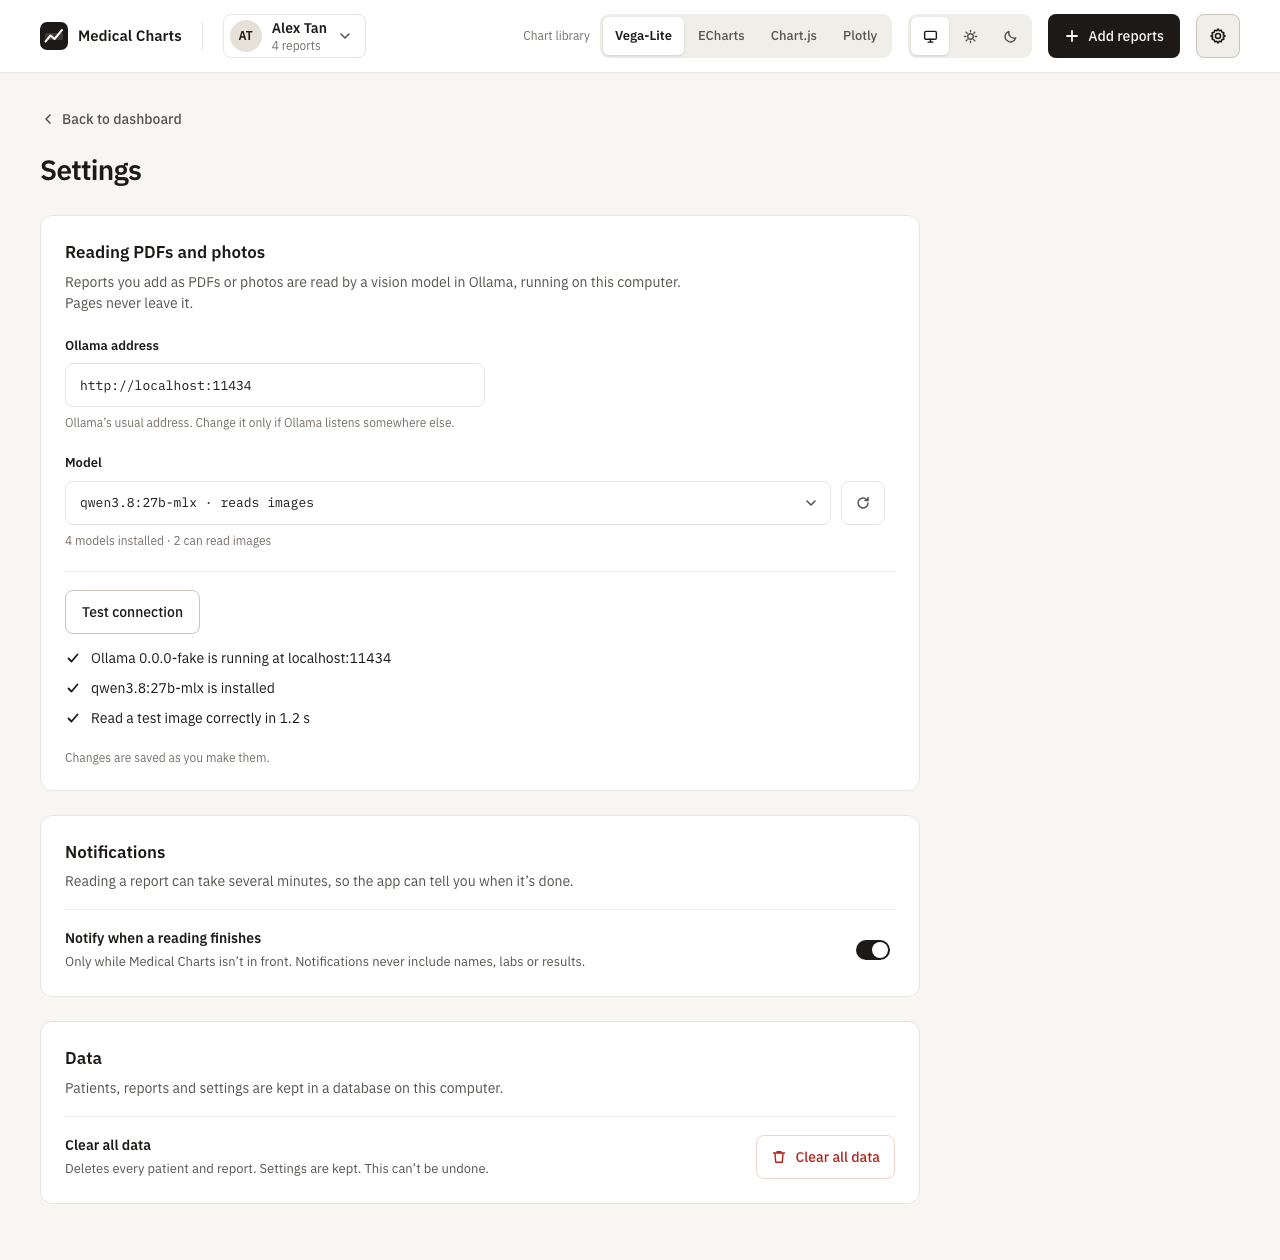
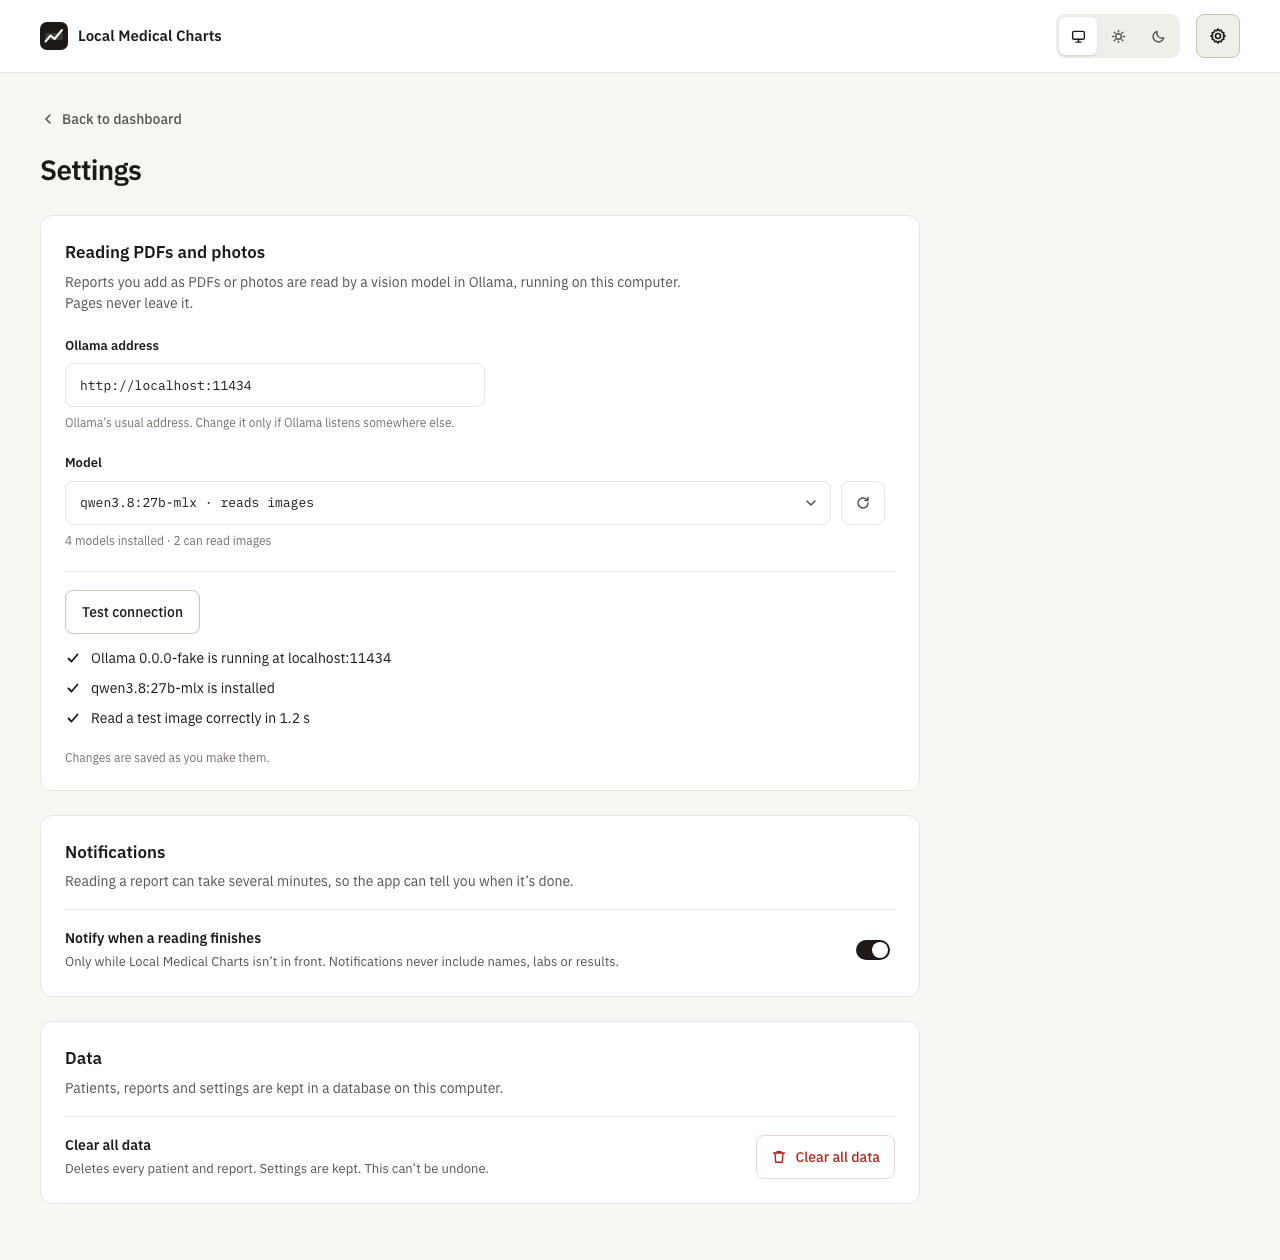
chore: rename the app to Local Medical Charts and refresh README screenshots

diff --git a/design/FirstReport.dc.html b/design/FirstReport.dc.html
@@ -17,7 +17,7 @@
 <div style="width: 1440px; min-height: 1000px; background: #f7f6f3">
   <header style="display: flex; align-items: center; justify-content: space-between; gap: 24px; height: 72px; padding: 0 40px; background: #ffffff; border-bottom: 1px solid #e7e5e0">
     <div style="display: flex; align-items: center; gap: 20px">
-      <div style="display: flex; align-items: center; gap: 10px"><svg width="28" height="28" viewBox="0 0 28 28" fill="none" aria-hidden="true"><rect width="28" height="28" rx="7" fill="#1c1917"></rect><rect x="5" y="11" width="18" height="7" rx="1.5" fill="#3a3530"></rect><path d="M5.5 19.5l5-6 4 3.5 7.5-9" stroke="#ffffff" stroke-width="2" stroke-linecap="round" stroke-linejoin="round"></path></svg><span style="font-size: 15px; font-weight: 600; color: #1c1917">Medical Charts</span></div>
+      <div style="display: flex; align-items: center; gap: 10px"><svg width="28" height="28" viewBox="0 0 28 28" fill="none" aria-hidden="true"><rect width="28" height="28" rx="7" fill="#1c1917"></rect><rect x="5" y="11" width="18" height="7" rx="1.5" fill="#3a3530"></rect><path d="M5.5 19.5l5-6 4 3.5 7.5-9" stroke="#ffffff" stroke-width="2" stroke-linecap="round" stroke-linejoin="round"></path></svg><span style="font-size: 15px; font-weight: 600; color: #1c1917">Local Medical Charts</span></div>
       <span style="width: 1px; height: 28px; background: #e7e5e0"></span>
       <div style="display: flex; align-items: center; gap: 10px; height: 44px; padding: 0 12px 0 6px; border: 1px solid #e7e5e0; border-radius: 8px; background: #ffffff">
         <span style="display: flex; align-items: center; justify-content: center; width: 32px; height: 32px; border-radius: 999px; background: #e6e1d8; font-size: 12px; font-weight: 600; color: #1c1917">SR</span>

diff --git a/design/Main.dc.html b/design/Main.dc.html
@@ -17,7 +17,7 @@
 <div style="width: 1440px; min-height: 2640px; background: #f7f6f3">
   <header style="display: flex; align-items: center; justify-content: space-between; gap: 24px; height: 72px; padding: 0 40px; background: #ffffff; border-bottom: 1px solid #e7e5e0">
     <div style="display: flex; align-items: center; gap: 20px">
-      <div style="display: flex; align-items: center; gap: 10px"><svg width="28" height="28" viewBox="0 0 28 28" fill="none" aria-hidden="true"><rect width="28" height="28" rx="7" fill="#1c1917"></rect><rect x="5" y="11" width="18" height="7" rx="1.5" fill="#3a3530"></rect><path d="M5.5 19.5l5-6 4 3.5 7.5-9" stroke="#ffffff" stroke-width="2" stroke-linecap="round" stroke-linejoin="round"></path></svg><span style="font-size: 15px; font-weight: 600; color: #1c1917">Medical Charts</span></div>
+      <div style="display: flex; align-items: center; gap: 10px"><svg width="28" height="28" viewBox="0 0 28 28" fill="none" aria-hidden="true"><rect width="28" height="28" rx="7" fill="#1c1917"></rect><rect x="5" y="11" width="18" height="7" rx="1.5" fill="#3a3530"></rect><path d="M5.5 19.5l5-6 4 3.5 7.5-9" stroke="#ffffff" stroke-width="2" stroke-linecap="round" stroke-linejoin="round"></path></svg><span style="font-size: 15px; font-weight: 600; color: #1c1917">Local Medical Charts</span></div>
       <span style="width: 1px; height: 28px; background: #e7e5e0"></span>
       <div style="display: flex; align-items: center; gap: 10px; height: 44px; padding: 0 12px 0 6px; border: 1px solid #e7e5e0; border-radius: 8px; background: #ffffff">
         <span style="display: flex; align-items: center; justify-content: center; width: 32px; height: 32px; border-radius: 999px; background: #e6e1d8; font-size: 12px; font-weight: 600; color: #1c1917">AT</span>

diff --git a/design/Review.dc.html b/design/Review.dc.html
@@ -17,7 +17,7 @@
 <div style="width: 1440px; min-height: 1240px; background: #f7f6f3">
   <header style="display: flex; align-items: center; justify-content: space-between; gap: 24px; height: 72px; padding: 0 40px; background: #ffffff; border-bottom: 1px solid #e7e5e0">
     <div style="display: flex; align-items: center; gap: 20px">
-      <div style="display: flex; align-items: center; gap: 10px"><svg width="28" height="28" viewBox="0 0 28 28" fill="none" aria-hidden="true"><rect width="28" height="28" rx="7" fill="#1c1917"></rect><rect x="5" y="11" width="18" height="7" rx="1.5" fill="#3a3530"></rect><path d="M5.5 19.5l5-6 4 3.5 7.5-9" stroke="#ffffff" stroke-width="2" stroke-linecap="round" stroke-linejoin="round"></path></svg><span style="font-size: 15px; font-weight: 600; color: #1c1917">Medical Charts</span></div>
+      <div style="display: flex; align-items: center; gap: 10px"><svg width="28" height="28" viewBox="0 0 28 28" fill="none" aria-hidden="true"><rect width="28" height="28" rx="7" fill="#1c1917"></rect><rect x="5" y="11" width="18" height="7" rx="1.5" fill="#3a3530"></rect><path d="M5.5 19.5l5-6 4 3.5 7.5-9" stroke="#ffffff" stroke-width="2" stroke-linecap="round" stroke-linejoin="round"></path></svg><span style="font-size: 15px; font-weight: 600; color: #1c1917">Local Medical Charts</span></div>
       <span style="width: 1px; height: 28px; background: #e7e5e0"></span>
       <div style="display: flex; align-items: center; gap: 10px; height: 44px; padding: 0 12px 0 6px; border: 1px solid #e7e5e0; border-radius: 8px; background: #ffffff">
         <span style="display: flex; align-items: center; justify-content: center; width: 32px; height: 32px; border-radius: 999px; background: #e6e1d8; font-size: 12px; font-weight: 600; color: #1c1917">AT</span>

diff --git a/design/Settings.dc.html b/design/Settings.dc.html
@@ -17,7 +17,7 @@
 <div style="width: 1440px; min-height: 1100px; background: #f7f6f3">
   <header style="display: flex; align-items: center; justify-content: space-between; gap: 24px; height: 72px; padding: 0 40px; background: #ffffff; border-bottom: 1px solid #e7e5e0">
     <div style="display: flex; align-items: center; gap: 20px">
-      <div style="display: flex; align-items: center; gap: 10px"><svg width="28" height="28" viewBox="0 0 28 28" fill="none" aria-hidden="true"><rect width="28" height="28" rx="7" fill="#1c1917"></rect><rect x="5" y="11" width="18" height="7" rx="1.5" fill="#3a3530"></rect><path d="M5.5 19.5l5-6 4 3.5 7.5-9" stroke="#ffffff" stroke-width="2" stroke-linecap="round" stroke-linejoin="round"></path></svg><span style="font-size: 15px; font-weight: 600; color: #1c1917">Medical Charts</span></div>
+      <div style="display: flex; align-items: center; gap: 10px"><svg width="28" height="28" viewBox="0 0 28 28" fill="none" aria-hidden="true"><rect width="28" height="28" rx="7" fill="#1c1917"></rect><rect x="5" y="11" width="18" height="7" rx="1.5" fill="#3a3530"></rect><path d="M5.5 19.5l5-6 4 3.5 7.5-9" stroke="#ffffff" stroke-width="2" stroke-linecap="round" stroke-linejoin="round"></path></svg><span style="font-size: 15px; font-weight: 600; color: #1c1917">Local Medical Charts</span></div>
       <span style="width: 1px; height: 28px; background: #e7e5e0"></span>
       <div style="display: flex; align-items: center; gap: 10px; height: 44px; padding: 0 12px 0 6px; border: 1px solid #e7e5e0; border-radius: 8px; background: #ffffff">
         <span style="display: flex; align-items: center; justify-content: center; width: 32px; height: 32px; border-radius: 999px; background: #e6e1d8; font-size: 12px; font-weight: 600; color: #1c1917">AT</span>

diff --git a/design/Importing.dc.html b/design/Importing.dc.html
@@ -17,7 +17,7 @@
 <div style="width: 1440px; min-height: 900px; background: #f7f6f3">
   <header style="display: flex; align-items: center; justify-content: space-between; gap: 24px; height: 72px; padding: 0 40px; background: #ffffff; border-bottom: 1px solid #e7e5e0">
     <div style="display: flex; align-items: center; gap: 20px">
-      <div style="display: flex; align-items: center; gap: 10px"><svg width="28" height="28" viewBox="0 0 28 28" fill="none" aria-hidden="true"><rect width="28" height="28" rx="7" fill="#1c1917"></rect><rect x="5" y="11" width="18" height="7" rx="1.5" fill="#3a3530"></rect><path d="M5.5 19.5l5-6 4 3.5 7.5-9" stroke="#ffffff" stroke-width="2" stroke-linecap="round" stroke-linejoin="round"></path></svg><span style="font-size: 15px; font-weight: 600; color: #1c1917">Medical Charts</span></div>
+      <div style="display: flex; align-items: center; gap: 10px"><svg width="28" height="28" viewBox="0 0 28 28" fill="none" aria-hidden="true"><rect width="28" height="28" rx="7" fill="#1c1917"></rect><rect x="5" y="11" width="18" height="7" rx="1.5" fill="#3a3530"></rect><path d="M5.5 19.5l5-6 4 3.5 7.5-9" stroke="#ffffff" stroke-width="2" stroke-linecap="round" stroke-linejoin="round"></path></svg><span style="font-size: 15px; font-weight: 600; color: #1c1917">Local Medical Charts</span></div>
       <span style="width: 1px; height: 28px; background: #e7e5e0"></span>
       <div style="display: flex; align-items: center; gap: 10px; height: 44px; padding: 0 12px 0 6px; border: 1px solid #e7e5e0; border-radius: 8px; background: #ffffff">
         <span style="display: flex; align-items: center; justify-content: center; width: 32px; height: 32px; border-radius: 999px; background: #e6e1d8; font-size: 12px; font-weight: 600; color: #1c1917">AT</span>

diff --git a/design/TestDetail.dc.html b/design/TestDetail.dc.html
@@ -18,7 +18,7 @@
   <div aria-hidden="true">
     <header style="display: flex; align-items: center; justify-content: space-between; gap: 24px; height: 72px; padding: 0 40px; background: #ffffff; border-bottom: 1px solid #e7e5e0">
     <div style="display: flex; align-items: center; gap: 20px">
-      <div style="display: flex; align-items: center; gap: 10px"><svg width="28" height="28" viewBox="0 0 28 28" fill="none" aria-hidden="true"><rect width="28" height="28" rx="7" fill="#1c1917"></rect><rect x="5" y="11" width="18" height="7" rx="1.5" fill="#3a3530"></rect><path d="M5.5 19.5l5-6 4 3.5 7.5-9" stroke="#ffffff" stroke-width="2" stroke-linecap="round" stroke-linejoin="round"></path></svg><span style="font-size: 15px; font-weight: 600; color: #1c1917">Medical Charts</span></div>
+      <div style="display: flex; align-items: center; gap: 10px"><svg width="28" height="28" viewBox="0 0 28 28" fill="none" aria-hidden="true"><rect width="28" height="28" rx="7" fill="#1c1917"></rect><rect x="5" y="11" width="18" height="7" rx="1.5" fill="#3a3530"></rect><path d="M5.5 19.5l5-6 4 3.5 7.5-9" stroke="#ffffff" stroke-width="2" stroke-linecap="round" stroke-linejoin="round"></path></svg><span style="font-size: 15px; font-weight: 600; color: #1c1917">Local Medical Charts</span></div>
       <span style="width: 1px; height: 28px; background: #e7e5e0"></span>
       <div style="display: flex; align-items: center; gap: 10px; height: 44px; padding: 0 12px 0 6px; border: 1px solid #e7e5e0; border-radius: 8px; background: #ffffff">
         <span style="display: flex; align-items: center; justify-content: center; width: 32px; height: 32px; border-radius: 999px; background: #e6e1d8; font-size: 12px; font-weight: 600; color: #1c1917">AT</span>

diff --git a/design/Welcome.dc.html b/design/Welcome.dc.html
@@ -19,7 +19,7 @@
   <div style="display: flex; flex-direction: column; align-items: center; gap: 32px; width: 640px">
     <div style="display: flex; flex-direction: column; align-items: center; gap: 14px">
       <svg width="48" height="48" viewBox="0 0 28 28" fill="none" aria-hidden="true"><rect width="28" height="28" rx="7" fill="#1c1917"></rect><rect x="5" y="11" width="18" height="7" rx="1.5" fill="#3a3530"></rect><path d="M5.5 19.5l5-6 4 3.5 7.5-9" stroke="#ffffff" stroke-width="2" stroke-linecap="round" stroke-linejoin="round"></path></svg>
-      <h1 style="margin: 0; font-size: 30px; font-weight: 600; letter-spacing: -0.01em; color: #1c1917">Medical Charts</h1>
+      <h1 style="margin: 0; font-size: 30px; font-weight: 600; letter-spacing: -0.01em; color: #1c1917">Local Medical Charts</h1>
       <p style="margin: 0; font-size: 16px; line-height: 1.5; color: #57534e; text-align: center">See how lab results change over time, across every report and lab.</p>
     </div>
     <div style="display: flex; flex-direction: column; align-items: center; gap: 14px; width: 100%; box-sizing: border-box; padding: 52px 40px; background: #ffffff; border: 1.5px dashed #c9c3b8; border-radius: 16px">

diff --git a/desktop/store/paths_test.ts b/desktop/store/paths_test.ts
@@ -6,22 +6,22 @@ const env = (vars: Record<string, string>) => ({ get: (k: string) => vars[k] });
 Deno.test("app data follows each platform's convention", () => {
   assertEquals(
     appDataDir("darwin", env({ HOME: "/Users/example" })),
-    "/Users/example/Library/Application Support/Medical Charts",
+    "/Users/example/Library/Application Support/Local Medical Charts",
   );
   assertEquals(
     appDataDir(
       "windows",
       env({ APPDATA: "C:\\Users\\example\\AppData\\Roaming" }),
     ),
-    "C:\\Users\\example\\AppData\\Roaming\\Medical Charts",
+    "C:\\Users\\example\\AppData\\Roaming\\Local Medical Charts",
   );
   assertEquals(
     appDataDir("linux", env({ HOME: "/home/example" })),
-    "/home/example/.local/share/medical-charts",
+    "/home/example/.local/share/local-medical-charts",
   );
   assertEquals(
     appDataDir("linux", env({ HOME: "/home/example", XDG_DATA_HOME: "/data" })),
-    "/data/medical-charts",
+    "/data/local-medical-charts",
   );
 });
 

diff --git a/desktop/main.ts b/desktop/main.ts
@@ -39,7 +39,7 @@ function findAppDist(): string | null {
 
 // The first BrowserWindow adopts the window the runtime already opened.
 const win = new Deno.BrowserWindow<DesktopBindings>({
-  title: "Medical Charts",
+  title: "Local Medical Charts",
   width: 1440,
   height: 900,
 });
@@ -148,7 +148,7 @@ const dist = findAppDist();
 Deno.serve((request) => {
   if (!dist) {
     return new Response(
-      "<!doctype html><title>Medical Charts</title><p>The app hasn't been built. Run <code>deno task desktop</code>, which builds it first.</p>",
+      "<!doctype html><title>Local Medical Charts</title><p>The app hasn't been built. Run <code>deno task desktop</code>, which builds it first.</p>",
       { headers: { "content-type": "text/html; charset=utf-8" } },
     );
   }

diff --git a/desktop/imports/quit_test.ts b/desktop/imports/quit_test.ts
@@ -25,13 +25,13 @@ Deno.test("quitting with nothing unsaved asks nothing", () => {
 Deno.test("quitting with an unsaved reading asks first", () => {
   assertEquals(
     quitWarning([job(1, "ready"), job(2, "failed")]),
-    "Quit Medical Charts? A reading isn't saved yet and will be lost.",
+    "Quit Local Medical Charts? A reading isn't saved yet and will be lost.",
   );
 });
 
 Deno.test("waiting, reading and ready imports all count as unsaved", () => {
   assertEquals(
     quitWarning([job(1, "ready"), job(2, "reading"), job(3, "waiting")]),
-    "Quit Medical Charts? 3 readings aren't saved yet and will be lost.",
+    "Quit Local Medical Charts? 3 readings aren't saved yet and will be lost.",
   );
 });

diff --git a/desktop/store/paths.ts b/desktop/store/paths.ts
@@ -8,7 +8,7 @@
 import { join as posixJoin } from "@std/path/posix";
 import { join as windowsJoin } from "@std/path/windows";
 
-export const APP_NAME = "Medical Charts";
+export const APP_NAME = "Local Medical Charts";
 export const DATABASE_FILE = "medical-charts.db";
 
 type Env = { get(key: string): string | undefined };
@@ -31,7 +31,7 @@ export function appDataDir(os: typeof Deno.build.os, env: Env): string {
   // Linux and other Unix-likes follow the XDG base directory convention.
   return posixJoin(
     env.get("XDG_DATA_HOME") || posixJoin(home, ".local", "share"),
-    "medical-charts",
+    "local-medical-charts",
   );
 }
 

diff --git a/app/src/views/WelcomeView.vue b/app/src/views/WelcomeView.vue
@@ -44,7 +44,7 @@ const FORMATS = ["PDF", "JPG", "PNG", "WebP", "JSON"];
     <main class="flex w-full max-w-160 flex-col items-center gap-8">
       <div class="flex flex-col items-center gap-3.5 text-center">
         <AppLogo :size="48" />
-        <h1 class="text-[30px] font-semibold tracking-tight">Medical Charts</h1>
+        <h1 class="text-[30px] font-semibold tracking-tight">Local Medical Charts</h1>
         <p class="text-base leading-normal text-ink-2">
           See how lab results change over time, across every report and lab.
         </p>
